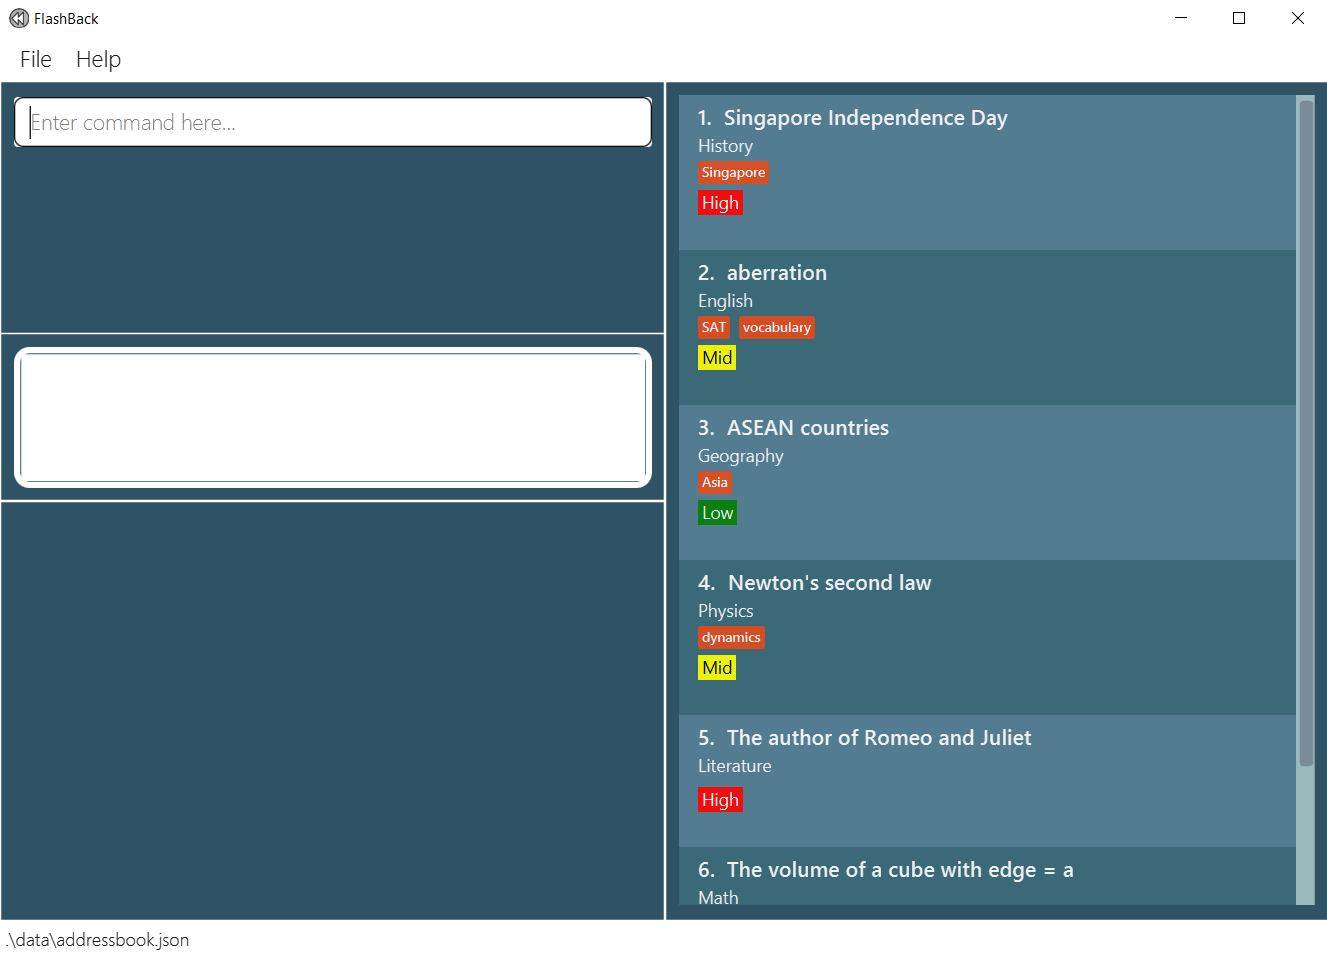
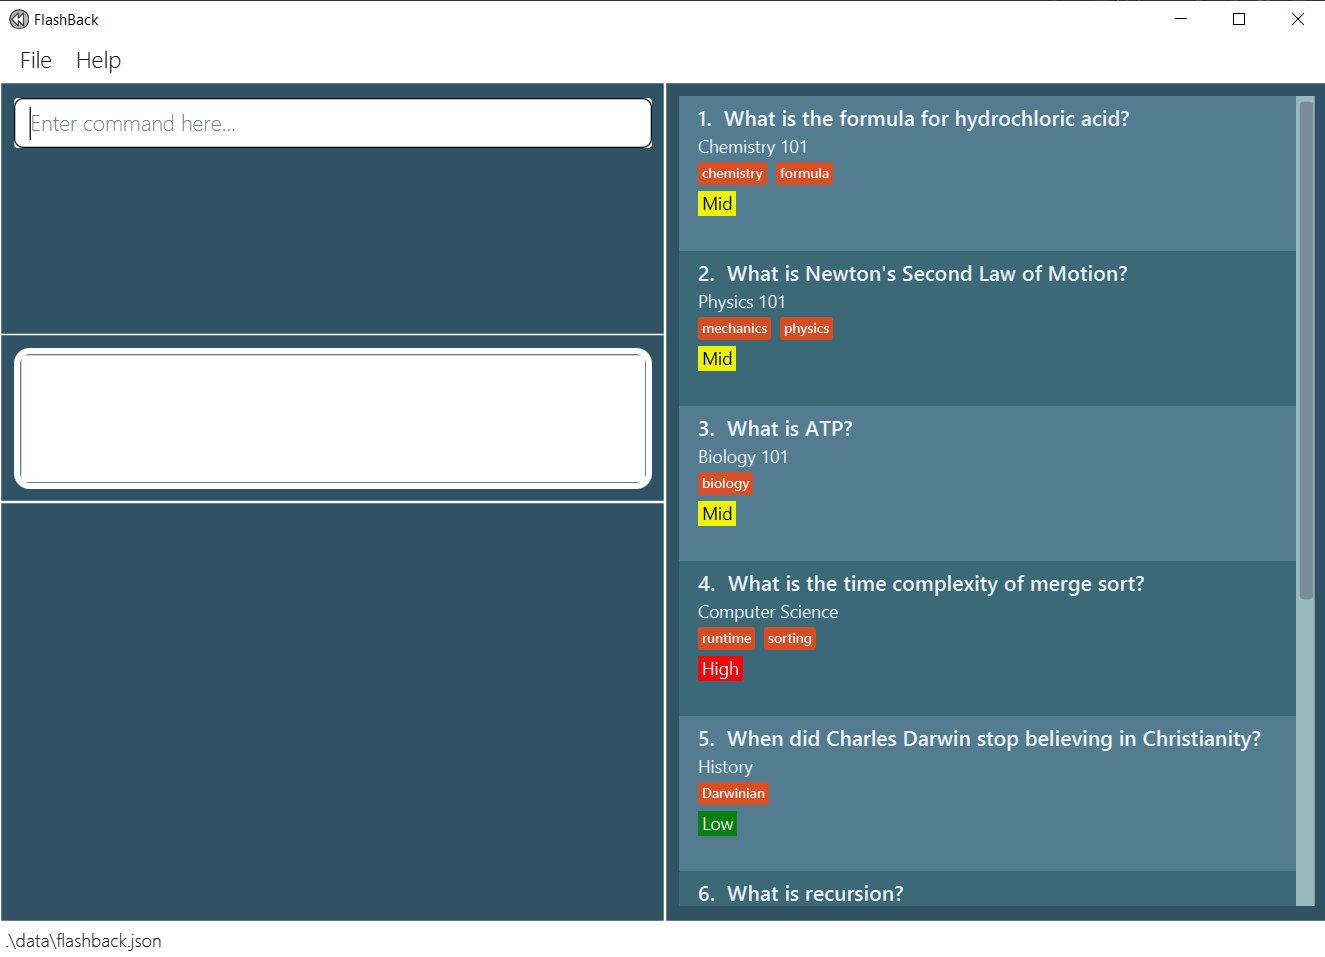
Update Unit test for View Command

diff --git a/src/test/java/seedu/address/logic/commands/ViewCommandTest.java b/src/test/java/seedu/address/logic/commands/ViewCommandTest.java
@@ -1,20 +1,61 @@
 package seedu.address.logic.commands;
 
 import static org.junit.jupiter.api.Assertions.*;
+import static seedu.address.logic.commands.CommandTestUtil.*;
 import static seedu.address.testutil.TypicalFlashcards.getTypicalFlashBack;
 import static seedu.address.testutil.TypicalIndexes.INDEX_FIRST_FLASHCARD;
 import static seedu.address.testutil.TypicalIndexes.INDEX_SECOND_FLASHCARD;
 
 import org.junit.jupiter.api.Test;
 
+import seedu.address.commons.core.Messages;
+import seedu.address.commons.core.index.Index;
 import seedu.address.model.Model;
 import seedu.address.model.ModelManager;
 import seedu.address.model.UserPrefs;
+import seedu.address.model.flashcard.Flashcard;
 
 public class ViewCommandTest {
     private Model model = new ModelManager(getTypicalFlashBack(), new UserPrefs());
 
     //TODO: Add more test cases after the TypicalPerson.java is updated
+    @Test
+    public void execute_validIndexUnfilteredList_success() {
+        Flashcard viewCard = model.getFilteredFlashcardList().get(INDEX_FIRST_FLASHCARD.getZeroBased());
+        ViewCommand viewCommand = new ViewCommand(INDEX_FIRST_FLASHCARD);
+        CommandResult expectedCommandResult = new CommandResult(
+                String.format(ViewCommand.MESSAGE_VIEW_SUCCESS, viewCard),
+                INDEX_FIRST_FLASHCARD.getZeroBased());
+        assertCommandSuccess(viewCommand, model, expectedCommandResult, model);
+    }
+
+    @Test
+    public void execute_invalidIndexUnfilteredList_throwsCommandException() {
+        Index outOfBoundIndex = Index.fromOneBased(model.getFilteredFlashcardList().size() + 1);
+        ViewCommand viewCommand = new ViewCommand(outOfBoundIndex);
+        assertCommandFailure(viewCommand, model, Messages.MESSAGE_INVALID_FLASHCARD_DISPLAYED_INDEX);
+    }
+
+    @Test
+    public void execute_validIndexFilteredList_success() {
+        showFlashcardAtIndex(model, INDEX_FIRST_FLASHCARD);
+        Flashcard viewCard = model.getFilteredFlashcardList()
+                .get(INDEX_FIRST_FLASHCARD.getZeroBased());
+        ViewCommand viewCommand = new ViewCommand(INDEX_FIRST_FLASHCARD);
+        CommandResult expectedCommandResult = new CommandResult(
+                String.format(ViewCommand.MESSAGE_VIEW_SUCCESS, viewCard),
+                INDEX_FIRST_FLASHCARD.getZeroBased());
+        assertCommandSuccess(viewCommand, model, expectedCommandResult, model);
+    }
+
+    @Test
+    public void execute_invalidIndexFilteredList_throwsCommandException() {
+        showFlashcardAtIndex(model, INDEX_FIRST_FLASHCARD);
+        Index outOfBoundIndex = INDEX_SECOND_FLASHCARD;
+        assertTrue(outOfBoundIndex.getZeroBased() < model.getFlashBack().getCardList().size());
+        ViewCommand viewCommand = new ViewCommand(outOfBoundIndex);
+        assertCommandFailure(viewCommand, model, Messages.MESSAGE_INVALID_FLASHCARD_DISPLAYED_INDEX);
+    }
     @Test
     public void equals() {
         ViewCommand viewFirstCommand = new ViewCommand(INDEX_FIRST_FLASHCARD);

diff --git a/src/main/java/seedu/address/model/util/SampleDataUtil.java b/src/main/java/seedu/address/model/util/SampleDataUtil.java
@@ -18,40 +18,46 @@ public class SampleDataUtil {
         return new Flashcard[] {
             new Flashcard(new Question("What is the formula for hydrochloric acid?"),
                     new Answer("HCl"),
-                    new Category("chemistry 101"),
+                    new Category("Chemistry 101"),
                     new Priority("Mid"),
                     EMPTY,
                     getTagSet("formula", "chemistry")),
             new Flashcard(new Question("What is Newton's Second Law of Motion?"),
                     new Answer("Force = Mass * Acceleration"),
-                    new Category("physics 101"),
+                    new Category("Physics 101"),
                     new Priority("Mid"),
                     EMPTY,
                     getTagSet("mechanics", "physics")),
             new Flashcard(new Question("What is ATP?"),
                     new Answer("Adenosine Triphosphate"),
-                    new Category("biology 101"),
+                    new Category("Biology 101"),
                     new Priority("Mid"),
                     EMPTY,
                     getTagSet("biology")),
-            new Flashcard(new Question("What is the time complexity of merge sort"),
+            new Flashcard(new Question("What is the time complexity of merge sort?"),
                     new Answer("O(nlogn)"),
-                    new Category("computer science"),
+                    new Category("Computer Science"),
                     new Priority("High"),
                     EMPTY,
                     getTagSet("sorting", "runtime")),
             new Flashcard(new Question("When did Charles Darwin stop believing in Christianity?"),
                     new Answer("After the Voyage of the Beagle"),
-                    new Category("history"),
+                    new Category("History"),
                     new Priority("Low"),
                     EMPTY,
                     getTagSet("Darwinian")),
             new Flashcard(new Question("What is recursion?"),
                     new Answer("recursion"),
-                    new Category("computer science"),
+                    new Category("Computer Science"),
                     new Priority("Low"),
                     EMPTY,
-                    getTagSet("random"))
+                    getTagSet("random")),
+            new Flashcard(new Question("What is the author of Romeo and Juliet?"),
+                    new Answer("William Shakespeare"),
+                    new Category("Literature"),
+                    new Priority("High"),
+                    EMPTY,
+                    getTagSet("tragedy"))
         };
     }
 

diff --git a/src/main/java/seedu/address/storage/JsonAdaptedFlashcard.java b/src/main/java/seedu/address/storage/JsonAdaptedFlashcard.java
@@ -28,11 +28,7 @@ class JsonAdaptedFlashcard {
     private final List<JsonAdaptedTag> tagged = new ArrayList<>();
 
     /**
-<<<<<<< HEAD:src/main/java/seedu/address/storage/JsonAdaptedFlashcard.java
-     * Constructs a {@code JsonAdaptedFlashcard} with the given person details.
-=======
      * Constructs a {@code JsonAdaptedFlashcard} with the given flash card details.
->>>>>>> c62b7fca8e6e2608d71e5cc2946c10944917bc3d:src/main/java/seedu/address/storage/JsonAdaptedPerson.java
      */
     @JsonCreator
     public JsonAdaptedFlashcard(@JsonProperty("question") String question, @JsonProperty("answer") String answer,
@@ -64,11 +60,7 @@ class JsonAdaptedFlashcard {
     }
 
     /**
-<<<<<<< HEAD:src/main/java/seedu/address/storage/JsonAdaptedFlashcard.java
      * Converts this Jackson-friendly adapted card object into the model's {@code Flashcard} object.
-=======
-     * Converts this Jackson-friendly adapted person object into the model's {@code Flashcard} object.
->>>>>>> 5b1346da262ccb99becdb0c95e9b01b2f4b6a06c:src/main/java/seedu/address/storage/JsonAdaptedFlashcard.java
      *
      * @throws IllegalValueException if there were any data constraints violated in the adapted card.
      */

diff --git a/src/test/java/seedu/address/logic/parser/ViewCommandParserTest.java b/src/test/java/seedu/address/logic/parser/ViewCommandParserTest.java
@@ -1,0 +1,24 @@
+package seedu.address.logic.parser;
+
+import static seedu.address.commons.core.Messages.MESSAGE_INVALID_COMMAND_FORMAT;
+import static seedu.address.logic.parser.CommandParserTestUtil.assertParseFailure;
+import static seedu.address.logic.parser.CommandParserTestUtil.assertParseSuccess;
+import static seedu.address.testutil.TypicalIndexes.INDEX_FIRST_FLASHCARD;
+
+import org.junit.jupiter.api.Test;
+
+import seedu.address.logic.commands.ViewCommand;
+
+public class ViewCommandParserTest {
+    private ViewCommandParser parser = new ViewCommandParser();
+    @Test
+    public void parse_validArgs_returnsViewCommand() {
+        assertParseSuccess(parser, "1", new ViewCommand(INDEX_FIRST_FLASHCARD));
+    }
+
+    @Test
+    public void parse_invalidArgs_throwsParseException() {
+        assertParseFailure(parser, "a", String.format(MESSAGE_INVALID_COMMAND_FORMAT, ViewCommand.MESSAGE_USAGE));
+        assertParseFailure(parser, "-10", String.format(MESSAGE_INVALID_COMMAND_FORMAT, ViewCommand.MESSAGE_USAGE));
+    }
+}

diff --git a/src/main/java/seedu/address/model/flashcard/Flashcard.java b/src/main/java/seedu/address/model/flashcard/Flashcard.java
@@ -114,16 +114,16 @@ public class Flashcard {
         final StringBuilder builder = new StringBuilder();
         builder.append("Question: ")
                 .append(getQuestion())
-                .append("; Answer: ")
+                .append("\nAnswer: ")
                 .append(getAnswer())
-                .append("; Category: ")
+                .append("\nCategory: ")
                 .append(getCategory())
-                .append("; Priority: ")
+                .append("\nPriority: ")
                 .append(getPriority());
 
         Set<Tag> tags = getTags();
         if (!tags.isEmpty()) {
-            builder.append("; Tags: ");
+            builder.append("\nTags: ");
             tags.forEach(builder::append);
         }
         return builder.toString();

diff --git a/src/main/java/seedu/address/logic/commands/AddCommand.java b/src/main/java/seedu/address/logic/commands/AddCommand.java
@@ -30,10 +30,9 @@ public class AddCommand extends Command {
             + PREFIX_ANSWER + "William Shakespeare "
             + PREFIX_CATEGORY + "English Literature "
             + PREFIX_PRIORITY + "Mid "
-            + PREFIX_TAG + "boring "
-            + PREFIX_TAG + "easy";
-    public static final String MESSAGE_SUCCESS = "New flashcard added: %1$s";
-    public static final String MESSAGE_DUPLICATE_FLASHCARD = "This person already exists in FlashBack.";
+            + PREFIX_TAG + "tragedy";
+    public static final String MESSAGE_SUCCESS = "New flashcard added:\n %1$s";
+    public static final String MESSAGE_DUPLICATE_FLASHCARD = "This card has already been existed in FlashBack.";
 
     private final Flashcard toAdd;
 

diff --git a/src/main/java/seedu/address/commons/core/LogsCenter.java b/src/main/java/seedu/address/commons/core/LogsCenter.java
@@ -18,7 +18,7 @@ import java.util.logging.SimpleFormatter;
 public class LogsCenter {
     private static final int MAX_FILE_COUNT = 5;
     private static final int MAX_FILE_SIZE_IN_BYTES = (int) (Math.pow(2, 20) * 5); // 5MB
-    private static final String LOG_FILE = "addressbook.log";
+    private static final String LOG_FILE = "flashback.log";
     private static Level currentLogLevel = Level.INFO;
     private static final Logger logger = LogsCenter.getLogger(LogsCenter.class);
     private static FileHandler fileHandler;

diff --git a/docs/UserGuide.md b/docs/UserGuide.md
@@ -18,7 +18,8 @@ FlashBack is a **desktop application for managing notes, optimized for use via a
     * Exiting the program: `exit`
     * Saving data
     * Editing the data file
-    * Filtering cards: `[coming in v2.0]`
+    * Filtering cards: `[coming in v1.3]`
+    * Review mode: `[coming in v1.3]`
 * FAQ
 * Command Summary
 
@@ -35,7 +36,7 @@ FlashBack is a **desktop application for managing notes, optimized for use via a
 ![GUI](./images/Ui.png)
 1. Type the command in the command box and press Enter to execute it:
     * **`help`** : Opens the help window.
-    * **`add`**`k/ Einstein’s Equation d/ e=mc^2 t/ Physics`: Adds a new flashcard named `Einstein's Equation` to FlashBack.
+    * **`add`**`q/ What is the Einstein’s Equation? a/e=mc^2 c/Physics p/High t/ModernPhysics`: Adds a new flashcard named `What is the Einstein's Equation?` to FlashBack.
     * **`delete`**`1`: Deletes the 1st card shown in the current list.
     * **`clear`**: Deletes all cards. 
     * **`exit`**: Exits the application.
@@ -55,12 +56,12 @@ Format: `help`
 
 Adds a new card to the card list.
 
-Format: `add k/ KEYWORD d/ DESCRIPTION [t/ TOPIC]` <br />
-Note: The TOPIC is optional when adding a new card.
+Format: `add q/QUESTION a/ANSWER c/CATEGORY p/PRIORITY [t/TAGS]` <br />
+Note: The TAGS are optional when adding a new card.
 
 Examples:
-* `add k/ Einstein’s Equation d/ e=mc^2 t/ Physics`
-* `add k/ Independence day of Singapore d/ August 9th 1965 t/ History`
+* `add q/ What is the Einstein’s Equation? a/e=mc^2 c/Physics p/High t/ModernPhysics`
+* `add q/ What is the Independence day of Singapore? a/August 9th 1965 c/History p/Mid`
 
 
 ### Listing all cards : `list`
@@ -119,7 +120,11 @@ FlashBack data are saved as a JSON file `[JAR file location]/data/flashback.json
 If your changes to the data file makes its format invalid, FlashBack will discard all data and start with an empty data file at the next run.
 </div>
 
-### Filtering cards: `[coming in v2.0]`
+### Filtering cards: `[coming in v1.3]`
+
+_Details coming soon ..._
+
+### Review mode: `[coming in v1.3]`
 
 _Details coming soon ..._
 
@@ -137,7 +142,7 @@ _Details coming soon ..._
 
 Action | Format, Examples
 --------|------------------
-**Add** | `add k/ KEYWORD d/ DESCRIPTION [t/ TOPIC]...` <br> e.g., `add k/ Einstein’s Equation d/ e=mc^2 t/ Physics`
+**Add** | `add q/QUESTION a/ANSWER c/CATEGORY p/PRIORITY [t/TAGS]` <br> e.g., `add q/ What is the Einstein’s Equation? a/e=mc^2 c/Physics p/High t/ModernPhysics`
 **Delete** | `delete INDEX` <br> e.g., `delete 1`
 **View** | `view INDEX` <br> e.g., `view 2`
 **Clear** | `clear`
